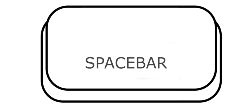
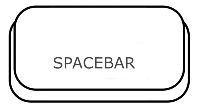
fix docu

Changed region(s): [[0.0302, 0.0278, 0.2714, 0.9722], [0.7839, 0.0278, 0.9648, 0.9722], [0.2412, 0.5278, 0.6935, 0.6389]]

diff --git a/manual-usuario.md b/manual-usuario.md
@@ -123,20 +123,18 @@ Para unirse a una partida nueva, escribir el número correspondiente y luego ent
 
 #### Teclas para jugar  
 
-![](keyright.png)
-![](keyup.png)
-![](keydown.png)
-![](keym.png)
-![](keydot.png)
-![](keyspacebar.png)
-![](keydot.png)
+![](keyright.png) Rotar a la derecha
 
-**->**: rotamos hacia la derecha.    
-**<-**: rotar hacia la izquierda.  
-**.**: disparar.  
-**^**: desplazarse hacia delante.  
-**v**: desplazarse hacia atras.  
-**SPACE**: cambiar de arma.  
-**m**: play/stop music.  
+![](keyup.png) Rotar a la izquiera
+
+![](keydown.png) Desplazarse abajo
+
+![](keym.png) Desplazarse arriba
+
+![](keydot.png) Disparar
+
+![](keyspace.png) Cambiar de arma
+
+![](keydot.png) Play/Stop música
 
 ## Apéndice de errores
